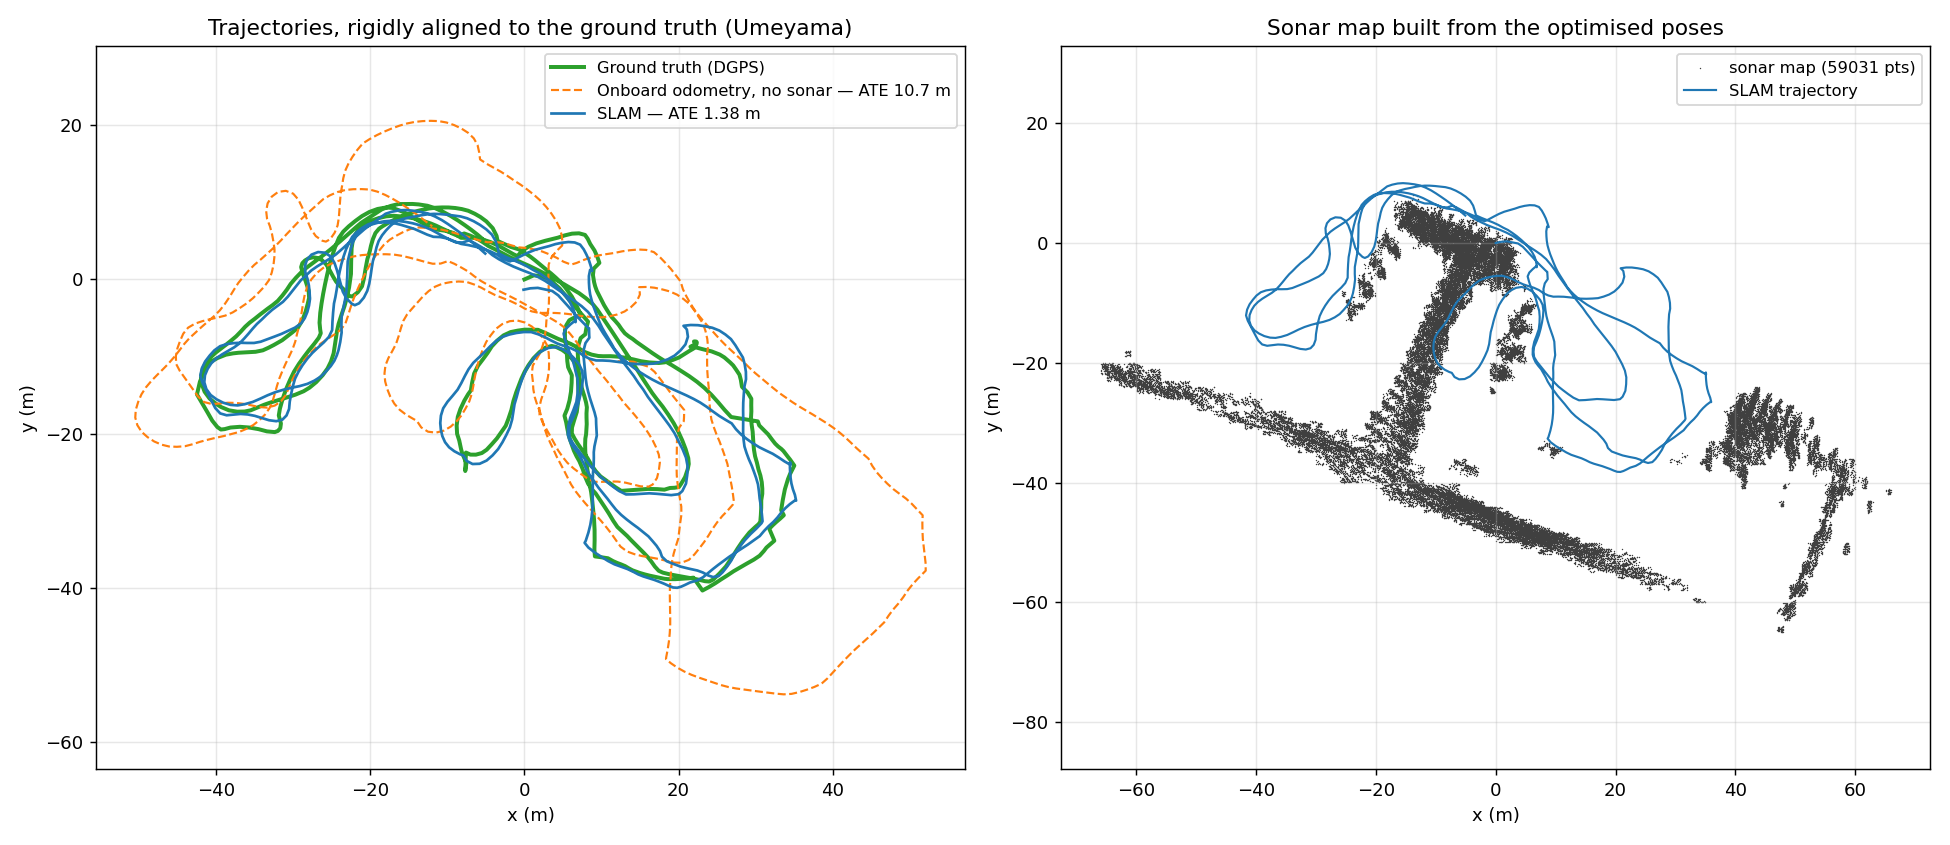
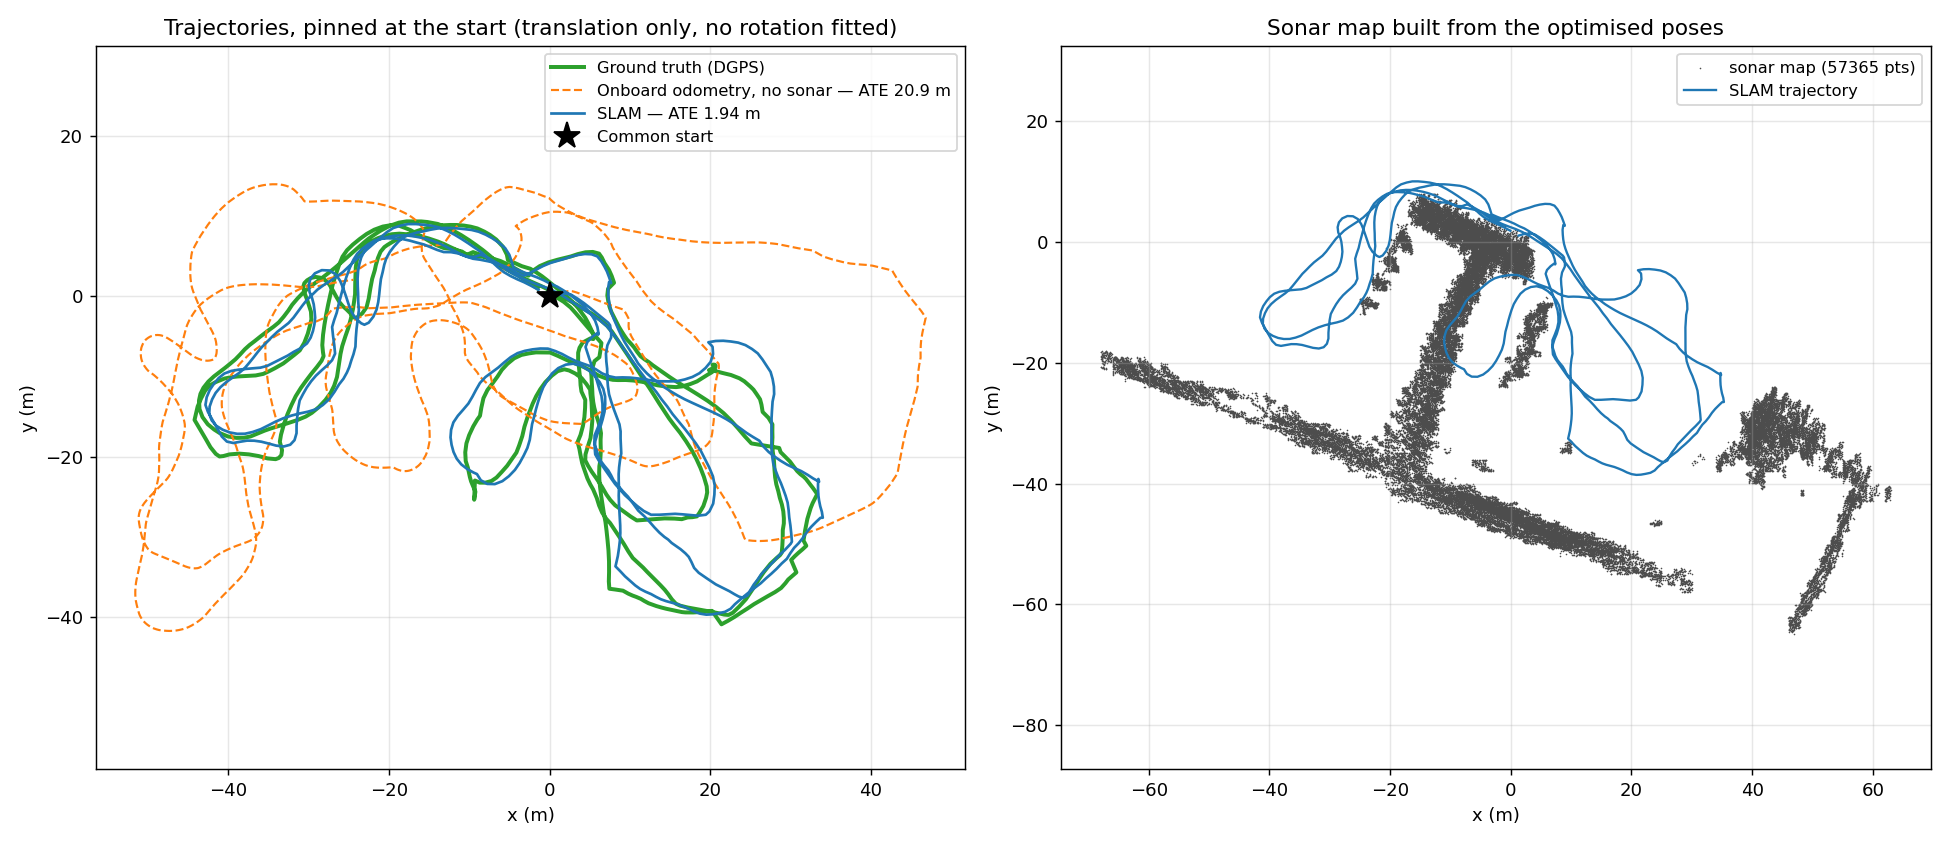
Update README

diff --git a/README.md b/README.md
@@ -174,10 +174,12 @@ SSM=true NSSM=true USBL=false ./run_slam.sh    # adapted original method
 
 <img src="docs/aracati_result.png" width="1000"/>
 
-Rigidly aligned to the ground truth (Umeyama), the usual ATE convention: the odometry
-alone reaches **10.7 m** of error, while the SLAM stays at **1.38 m** over the 43 min
-survey. Anchored at the first pose instead, without fitting a rotation — a stricter
-convention that exposes accumulated drift — the same run gives 19.7 m and 4.5 m.
+Both trajectories are pinned at the start by **translation only** — no rotation is fitted
+anywhere. This is the strict convention: the orientation of the estimated frame is an
+output of the system, not something the evaluation is allowed to correct. Over the 43 min
+survey the onboard odometry drifts to **20.9 m** of error, while the sonar SLAM stays at
+**1.94 m** (improved method, sonar + USBL). The adapted original method reaches 2.6 to
+3.6 m depending on the run.
 
 On the right, the map built from the optimised poses. The T-shaped pier and the two quays
 come out straight and thin: that is the practical test that the trajectory is right, since
@@ -225,7 +227,7 @@ Sonar resolution is the parameter to watch: 1024 azimuth bins produce a striped 
 | Script | Purpose |
 |---|---|
 | `analysis/sample_data_report.py` | map, SLAM-vs-DR gap, overlay on the aerial view |
-| `analysis/paper_eval.py` | ATE (Umeyama and origin-anchored), map sharpness |
+| `analysis/analyze_origine.py` | ATE pinned at the start, translation only |
 | `analysis/bilan_run.py` | one-image summary of a run |
 | `analysis/view3d_sample_data.py` | interactive 3D HTML of both trajectories |
 
